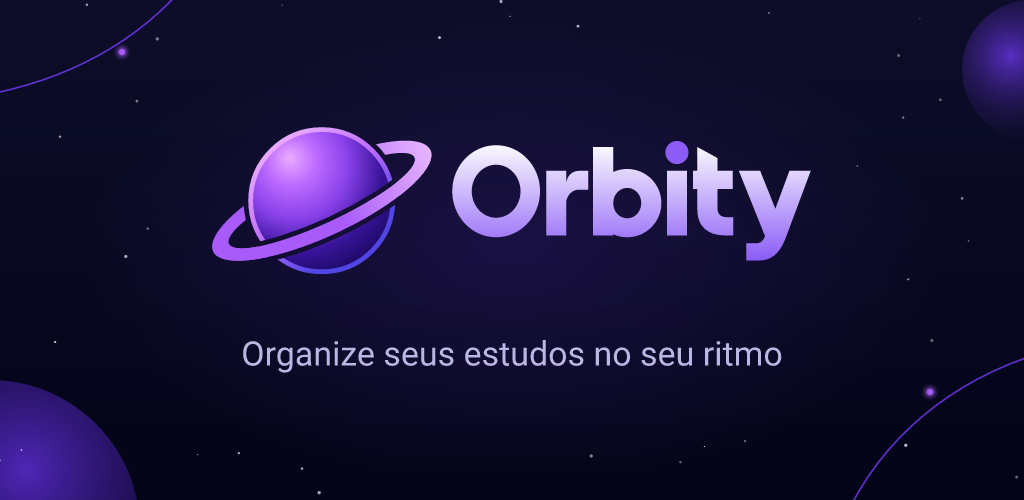
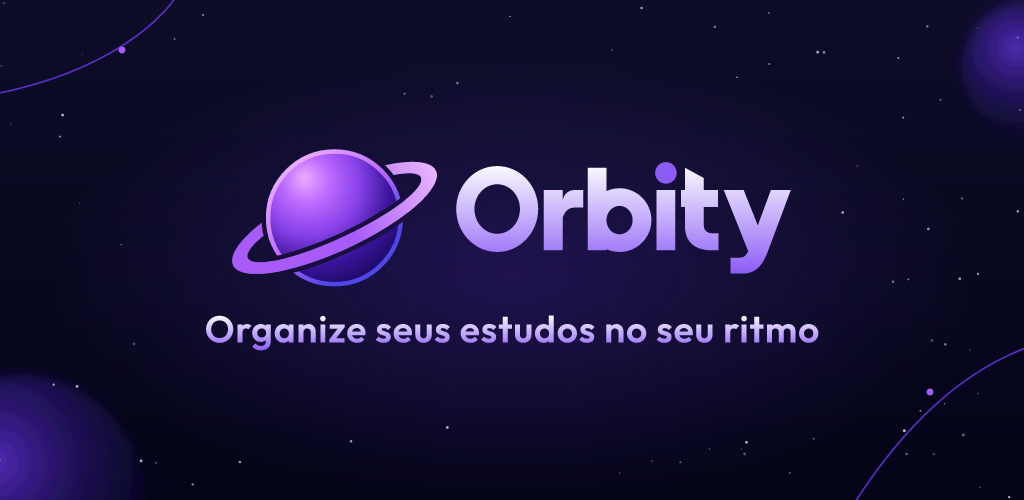
chore(store): refaz o grafico de destaque em vetor com o novo slogan
O grafico passa a ter um mestre SVG versionado, com o fundo vetorial e o
lockup da marca, e o PNG da loja e exportado dele (1024x500, 24 bits,
sem alfa). O slogan fica no estilo do nome, em vez da Roboto Regular
lilas.

Refs #197

Claude-Session: https://claude.ai/code/session_016T52XwgAKKFifYPgWFPNok

diff --git a/store/google-play/README.md b/store/google-play/README.md
@@ -11,7 +11,7 @@ Assets do build (ícone do app e splash) ficam em `assets/app/`.
 | Pasta | Conteúdo |
 | :--- | :--- |
 | `icon/` | Ícone da loja (`icon-512.png`) |
-| `feature-graphic/` | Gráfico de destaque (`feature-graphic.png` ou `.jpg`) |
+| `feature-graphic/` | Gráfico de destaque: o mestre vetorial `feature-graphic.svg` e o `feature-graphic.png` exportado dele, que vai para a loja |
 | `screenshots/phone/` | Capturas de celular, numeradas na ordem de exibição (`01-inicio.png`, `02-tarefas.png`, ...) |
 | `screenshots/tablet/` | Capturas de tablet (opcional) |
 
@@ -36,12 +36,11 @@ Regras gerais:
 Nenhuma imagem desta pasta foi gerada por IA.
 
 - **`icon/icon-512.png`:** exportado do `design-system/images/brand/orbity-symbol.svg` sobre `#030417` (o mesmo desenho do `assets/app/icon/icon.png`). PNG 512×512 opaco.
-- **`feature-graphic/feature-graphic.png`:** montado por script (resvg) em 25/11/2026. PNG 1024×500 de 24 bits, sem alfa.
+- **`feature-graphic/feature-graphic.svg`** (mestre) e **`feature-graphic/feature-graphic.png`** (enviado à loja): gráfico 100% vetorial, montado por script em 25/11/2026. O PNG é exportado do SVG com o resvg: 1024×500, 24 bits, sem alfa. Ao alterar o gráfico, altere o SVG e exporte o PNG de novo.
   - **Fundo:** desenhado em SVG, sem IA. Degradê de `#0D0D29` a `#030417`, brilho suave de `#7137F5` no centro e estrelas pequenas longe do centro. Também tem dois arcos orbitais finos em `#7137F5`, com pontos em `#A95BFA` (como no banner do ODS), e dois planetas desfocados nos cantos.
-  - **Logotipo:** `design-system/images/brand/orbity-logo.svg` (#230), aplicado sem alteração, com 600 px de largura e a área de proteção (altura-x, cerca de 65 px) livre.
-  - **Slogan:** "Organize seus estudos no seu ritmo", em Roboto Regular de 34 px e `#BBB6E3`, escolhido pela equipe.
-  - **Zona segura:** logotipo e slogan ocupam o bloco de x 212–812 e y 127–373, dentro da zona central de 820×340 (x 102–922, y 80–420).
-  - **Texto:** o nome e o slogan ocupam cerca de 15% da área, abaixo do limite de 20%.
+  - **Logotipo e slogan:** o lockup `design-system/images/brand/orbity-logo-slogan.svg`, aplicado sem alteração, com o logotipo em 560 px de largura. O slogan "Organize seus estudos no seu ritmo", escolhido pela equipe, está em contornos vetoriais da Outfit SemiBold, com o mesmo degradê do nome e cerca de 37 px. A construção do lockup está no `design-system/images/brand/README.md`.
+  - **Zona segura:** o lockup ocupa o bloco de x 204–820 e y 149–351, dentro da zona central de 820×340 (x 102–922, y 80–420).
+  - **Texto:** o nome e o slogan ocupam cerca de 11% da área, abaixo do limite de 20%.
 - **`screenshots/phone/`:** capturas reais do app, num build de release no emulador Pixel 7 (Android 16, 1080×2400, 420 dpi). As capturas de `01` a `05` são de 23/11/2026. A `06-perfil.png` é de 25/11/2026, feita num build da `development` que já inclui as correções do Perfil (#188, PRs #250 e #251):
   - **Barra de status:** limpa com o *demo mode* do Android (9:41, bateria cheia, sem notificações).
   - **Dados:** fictícios, de estudante. Nenhum nome, e-mail ou dado pessoal real. No Perfil, o nome é "Bia" e a sequência de 1 dia vem de uma tarefa concluída no próprio dia, como na tela inicial da `01-inicio.png`. Conquistas e horas de estudo aparecem zeradas porque o app ainda não as calcula.
